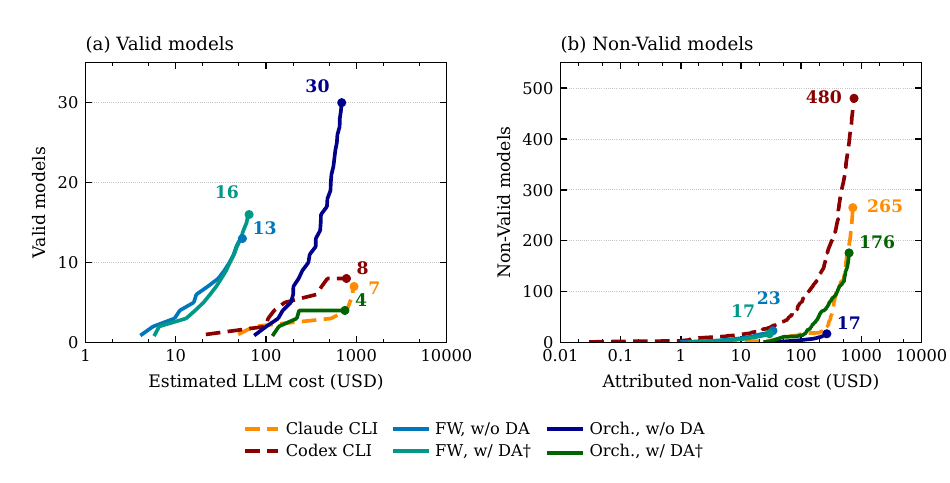
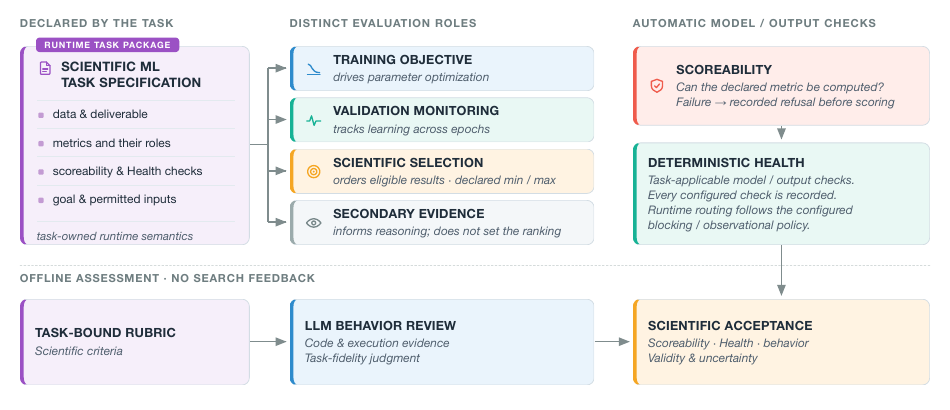
Fix README figures to paper Figure 1 infrastructure and Figure 2 evaluation

diff --git a/docs/assets/paper/README.md b/docs/assets/paper/README.md
@@ -1,7 +1,7 @@
 # Paper illustrations
 
-The root README uses the current paper's task/evaluation overview (`figure1`)
-and end-to-end research loop (`figure2`). The older framework composition,
+The root README uses the current paper's infrastructure overview (Figure 1,
+`figure1.png`) and evaluation protocol (Figure 2, `figure2.png`). The older framework composition,
 reference loop, evaluation-role, and human-participation illustrations remain
 available below for documentation that specifically links them.
 The original PDFs are copied unchanged where available; PNG previews render them
@@ -9,8 +9,8 @@ for Markdown. The current paper build supplies `figure1.png` and `figure2.png`
 as rendered submission figures.
 The root README embeds PNGs; it does not link those previews to vector PDFs.
 
-These are conceptual illustrations. The current `figure2.png` includes Data
-Analysis and literature inputs. The older `fig_loop` and `fig_composition`
+These are conceptual illustrations. The current `figure1.png` includes Data
+Analysis and literature capabilities. The older `fig_loop` and `fig_composition`
 illustrations omit Data Analysis. Use the framework guides for executable
 interfaces and configuration.
 
@@ -41,16 +41,21 @@ does not state a separate figure license, and no license is inferred.
 
 | Asset | Meaning | Source |
 | --- | --- | --- |
-| [`figure1.png`](figure1.png) | Task package declarations, evaluation roles, scoreability, and Health | `SIDERIUS-Paper/iclr/build/submission_audit/figure_1.png` |
-| [`figure2.png`](figure2.png) | Data Analysis/literature inputs and the Interpret → Propose → Implement → Validate → Train & Tune loop | `SIDERIUS-Paper/iclr/build/submission_audit/figure_2.png` |
+| [`figure1.png`](figure1.png) | Paper Figure 1: caller-owned composition and typed scientific capabilities (infra) | `SIDERIUS-Paper/iclr/build/submission_audit/figure_0.png` |
+| [`figure2.png`](figure2.png) | Paper Figure 2: task specification, evaluation roles, scoreability, Health, and offline review (eval) | `SIDERIUS-Paper/iclr/build/submission_audit/figure_1.png` |
 
 Current paper-build source checkout revision used for these two files:
 `8ef64a181e5b8e606ff6bdb88433c4ecdd7ab31f`.
-The files were copied read-only from the paper checkout on 2026-09-28.
+The files were copied read-only from the paper checkout on 2026-09-29.
+The audit export filenames are **zero-indexed**, unlike the paper's figure
+numbers. The paper's `iclr/build/main.aux` assigns `fig:overview` to Figure 1
+and `fig:evaluation` to Figure 2; their TeX sources are
+`iclr/figures/overview.tex` and `iclr/figures/evaluation.tex`. The research-loop
+export `figure_2.png` is not one of the two root README illustrations.
 
 ```text
-f39ed5c2ba1ea860434bf540902648540efe16692b6d7ecf23bb0f3d3ac5839a  figure1.png
-7cefd3de80672aaed3c422e15ddbc3b5576283a7d1e0b79a37e59b31b4e72a2f  figure2.png
+42ce1a9bc6296269e5c1b125b605054e2de5f24ad29d5c0044fd19e94737b42a  figure1.png
+f39ed5c2ba1ea860434bf540902648540efe16692b6d7ecf23bb0f3d3ac5839a  figure2.png
 ```
 
 ## SHA-256 checksums for the earlier illustrations

diff --git a/README.md b/README.md
@@ -15,21 +15,22 @@ that connect them.
 
 ## How the pieces fit together
 
-![Task package, evaluation roles, and automatic checks](docs/assets/paper/figure1.png)
+![Paper Figure 1: SIDERIUS infrastructure and typed capability contracts](docs/assets/paper/figure1.png)
 
-The first diagram shows the boundary that matters most: a task package declares
-the science, while the framework keeps the evaluation roles separate. A
-training loss is not automatically the ranking metric; validation history is
-evidence about learning; Health and scoreability decide whether an output is
-eligible to be considered.
+**Figure 1 — Infrastructure.** A human scientist, a fixed workflow, or an LLM
+orchestrator can call the same scientific capabilities through typed contracts.
+The caller chooses the calls, assembles their inputs, and owns control and
+history. Each capability owns its reasoning and tools, including executable
+Data Analysis.
 
-![The SIDERIUS research loop](docs/assets/paper/figure2.png)
+![Paper Figure 2: task specification and multilayer evaluation](docs/assets/paper/figure2.png)
 
-The second diagram shows one research loop. Data Analysis and literature review
-are optional inputs. The caller assembles the requested capabilities and their
-typed handoffs; the loop then interprets evidence, proposes a plan, implements
-model code, validates it, trains and tunes it, and records the result for the
-next iteration.
+**Figure 2 — Evaluation.** The task package separates training objectives,
+validation monitoring, scientific ranking, and supporting evidence.
+Scoreability checks whether the declared metric can be computed; Health
+records applicable model/output checks and follows their configured blocking
+or observational policy. Offline behavioral review adds evidence for scientific
+acceptance without feeding its judgments back into search.
 
 These figures are reproduced from the current SIDERIUS paper build. Their
 source and checksums are recorded in
